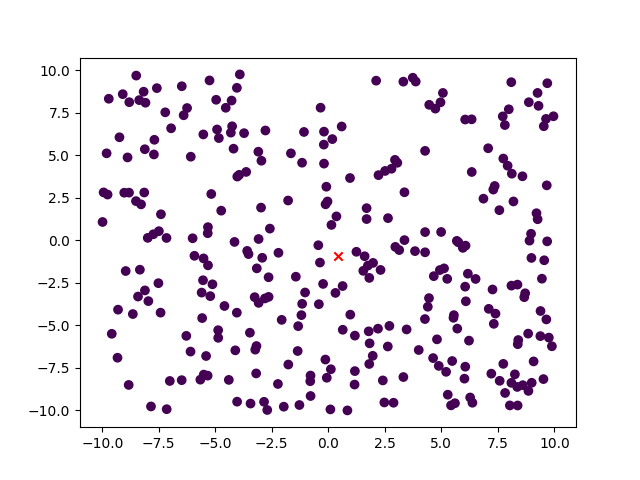
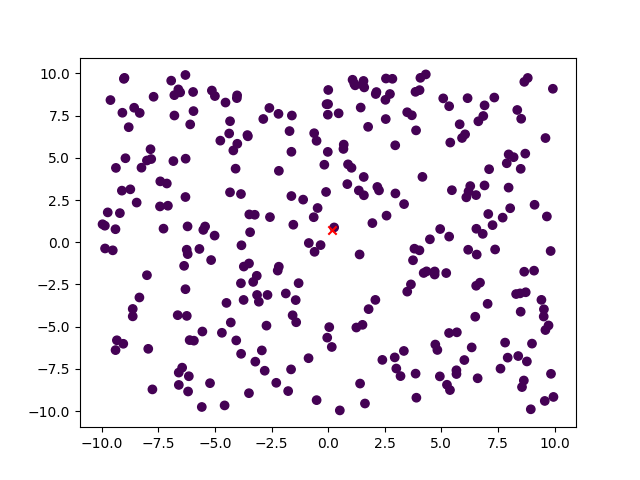
finished init methods farthest and kmeans++

diff --git a/templates/index.html b/templates/index.html
@@ -15,7 +15,7 @@
         <div class="clusters-number">
 
             <label for="num_k"> <h3>Number of clusters: </h3></label>
-            <input name="num_k" id="num_k" type="number" min="2">
+            <input name="num_k" id="num_k" type="number" min="2" value=2>
 
             <label for="init_method"><h3>Initialization method:</h3></label>
             <select name="init_method" id="init_method">
@@ -36,7 +36,7 @@
             </div>
         </form>
     </div>
-    
+
     <div class="results">
         {% if show_image %}
             <img src="{{ url_for('static', filename='kmeans.gif') }}?{{ timestamp }}" alt="K-Means Clustering GIF">

diff --git a/kmeans.py b/kmeans.py
@@ -43,21 +43,37 @@ class KMeans():
 
         # farthest first: select random first point, then select ones furthest away, and so on
         if self.init_method == 'farthest-first':
-            init_index = np.random.choice(len(self.data), size=1, replace=False)
+            # initial random center
+            centers = [[random.uniform(-10, 10), random.uniform(-10, 10)]] 
+            
+            # find rest of centers
+            for i in range(self.k-1):
+                
+                dists = np.array([min([self.dist(point, center) for center in centers]) for point in self.data])
+                # select the point that is farthest from its nearest center
+                next_center = self.data[np.argmax(dists)]
+                centers.append(next_center)
 
         # weighted by distance
         elif self.init_method == 'k-means-pp':
-            init_index = np.random.choice(len(self.data), size=1, replace=False)
-            indices = []
+            centers = [[random.uniform(-10, 10), random.uniform(-10, 10)]] 
+            for i in range(self.k-1):
+                # find rest of points
+                dists = np.array([min([self.dist(point, center) for center in centers]) for point in self.data])
+                prob = dists / dists.sum()
+                next_center = self.data[np.random.choice(len(self.data), p=prob)]
+                centers.append(next_center)
+
 
         # user click on points
         elif self.init_method == 'manual':
-            indices = []
+            centers = []
 
         else:
             # k random indices of centers
-            indices = np.random.choice(len(self.data), size=self.k, replace=False)
-        return self.data[indices]
+            centers = np.array([[random.uniform(-10, 10), random.uniform(-10, 10)] for _ in range(self.k)])
+
+        return centers
 
     def make_clusters(self, centers):
         # assign each data point to its closest center
@@ -116,12 +132,14 @@ class KMeans():
         return
 
 # centers = [[0, 0], [2, 2], [-3, 2], [2, -4]]
-dataset = np.array([[random.uniform(-10, 10), random.uniform(-10, 10)] for _ in range(300)])
+def new_dataset():
+    dataset = np.array([[random.uniform(-10, 10), random.uniform(-10, 10)] for _ in range(300)])
+    return dataset
 
 def generate_image(dataset, k, init_method, reset_data, final):
     if (reset_data == 1):
         # centers = [[0, 0], [2, 2], [-3, 2], [2, -4]]
-        dataset = np.array([[random.uniform(-10, 10), random.uniform(-10, 10)] for _ in range(300)])
+        dataset = new_dataset()
 
     kmeans = KMeans(dataset, k, init_method)
     kmeans.lloyds()
@@ -143,4 +161,4 @@ def generate_image(dataset, k, init_method, reset_data, final):
             duration=500
         )
 
-generate_image(dataset, 2, 'random', 0, 1)
+generate_image(new_dataset(), 2, 'random', 0, 1)

diff --git a/app.py b/app.py
@@ -17,6 +17,7 @@ def home():
     init_method = 'random'
     num_k = 2
     final = 0
+    reset_data = 0
     show_image = False 
 
     if request.method == "POST":
@@ -28,11 +29,21 @@ def home():
         elif 'final' in request.form:
             final = 1
 
+        if 'reset-data' in request.form:
+            reset_data = 1
+            final = 1
+
+        if 'reset' in request.form:
+            reset_data = 1
+            final = 1
+            num_k = 1
+            return redirect(url_for('home', show_image=False))
+
         print(int(num_k))
         print(init_method)
 
         # def generate_image(dataset, k, init_method, reset_data, final):
-        generate_image(dataset, int(num_k), init_method, 0, final)
+        generate_image(dataset, int(num_k), init_method, reset_data, final)
         
         return redirect(url_for('home', show_image=True))
 
